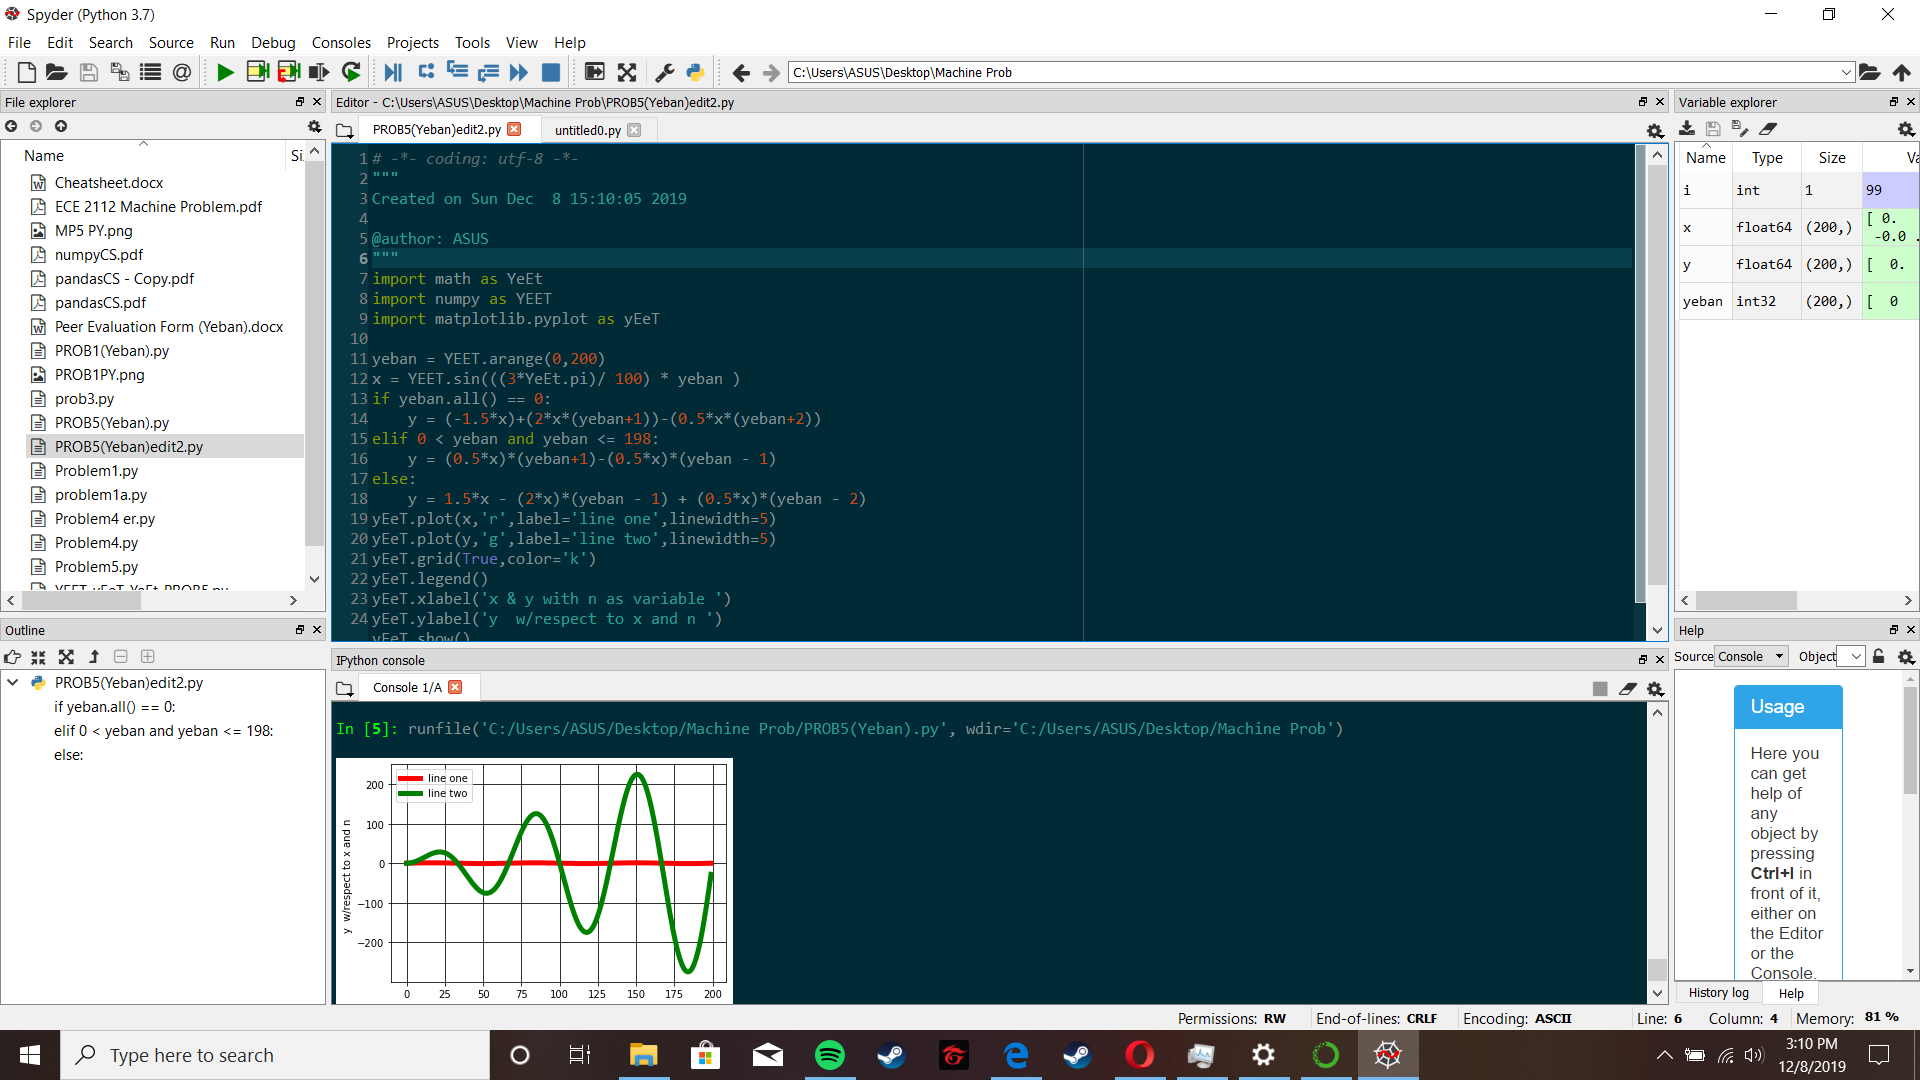
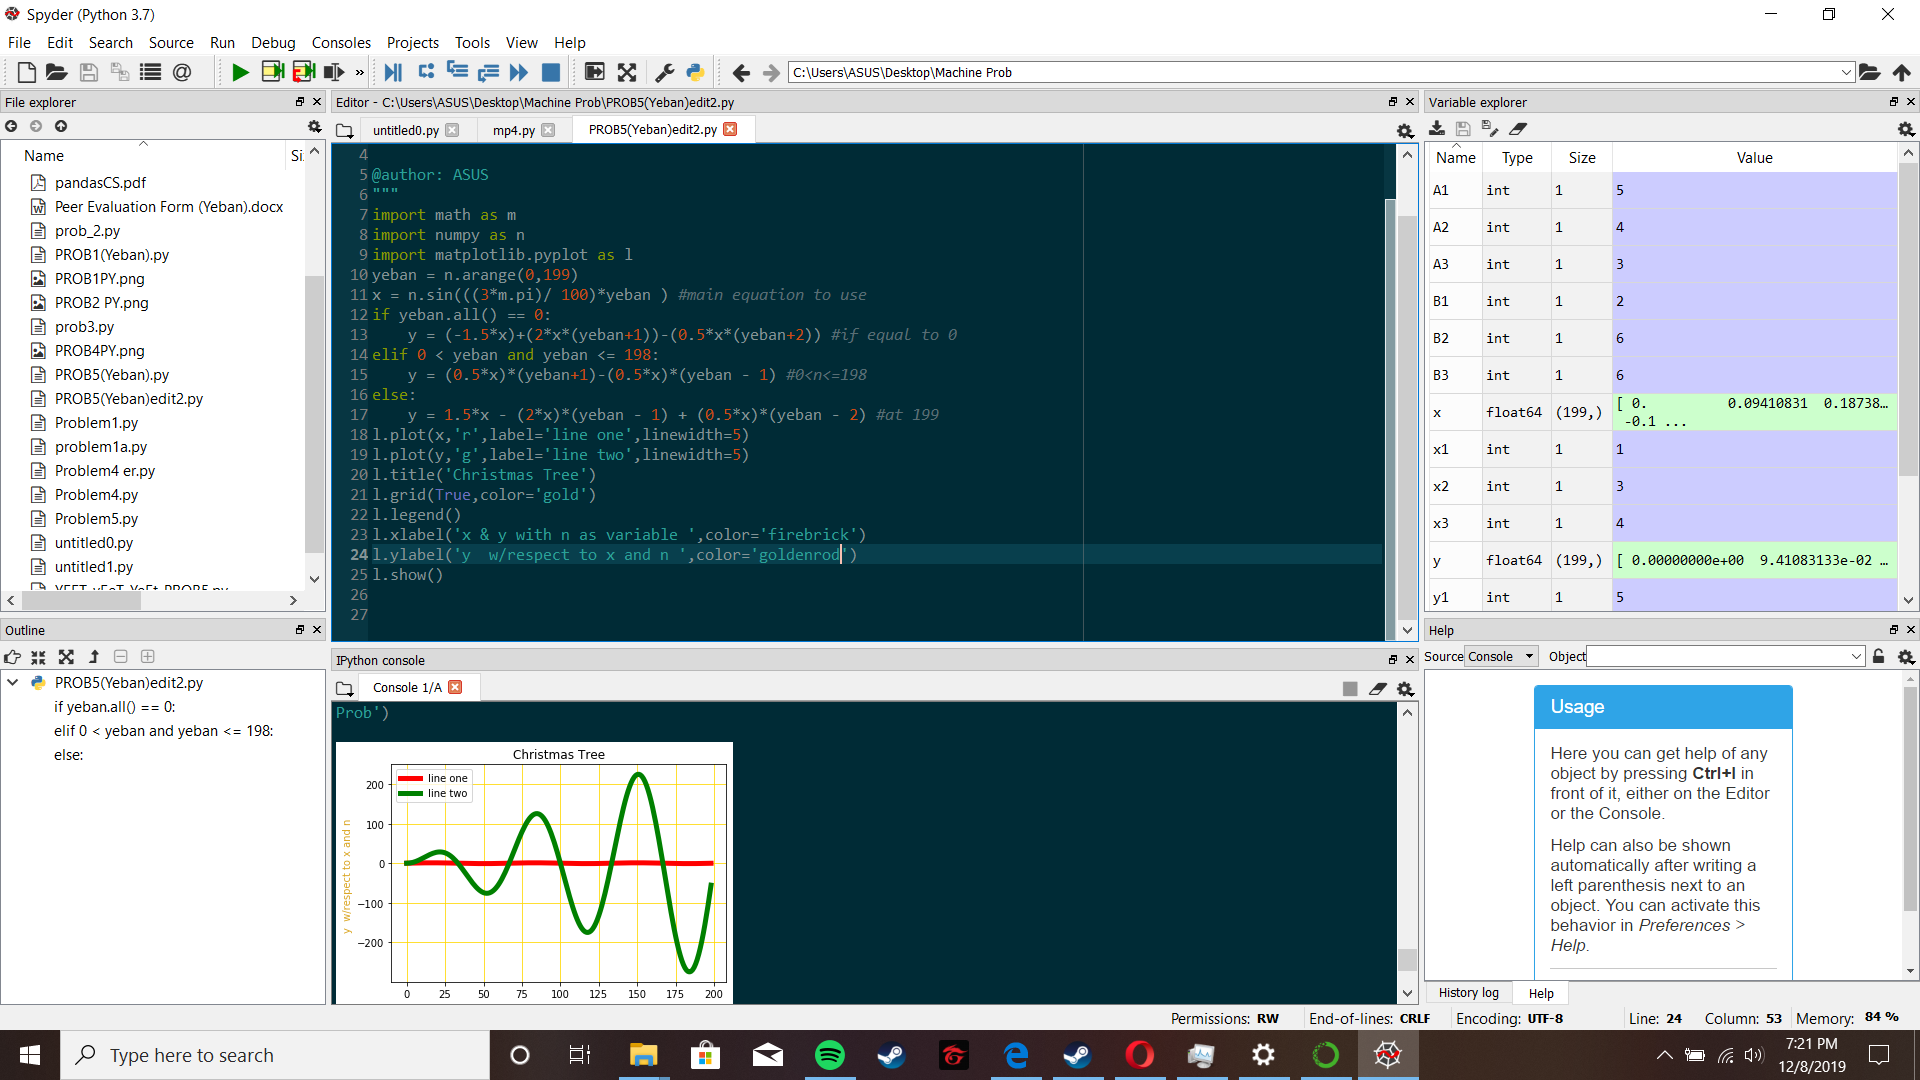
Add files via upload

diff --git a/PROB5(Yeban)edit2.py b/PROB5(Yeban)edit2.py
@@ -17,8 +17,10 @@ else:
     y = 1.5*x - (2*x)*(yeban - 1) + (0.5*x)*(yeban - 2) #at 199
 l.plot(x,'r',label='line one',linewidth=5)
 l.plot(y,'g',label='line two',linewidth=5)
-l.grid(True,color='k')
+l.title('Christmas Tree')
+l.grid(True,color='gold')
 l.legend()
-l.xlabel('x & y with n as variable ')
-l.ylabel('y  w/respect to x and n ')
+l.xlabel('x & y with n as variable ',color='firebrick')
+l.ylabel('y  w/respect to x and n ',color='goldenrod')
 l.show()
+
